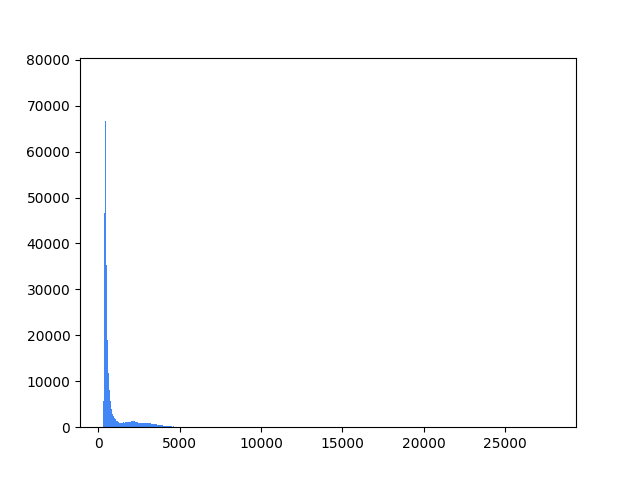
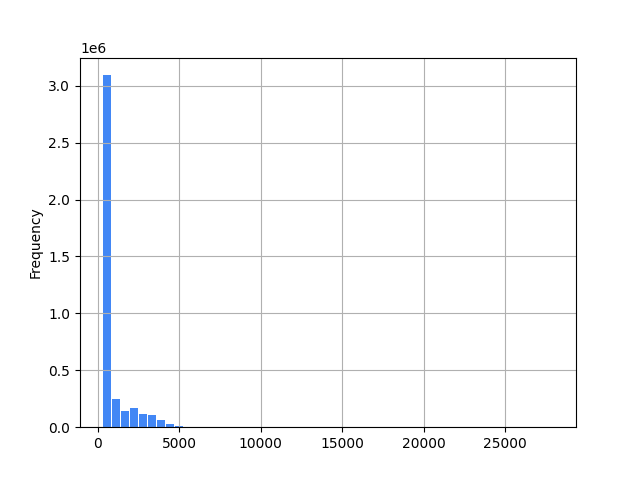
Use Pandas' series histogram.

diff --git a/main.py b/main.py
@@ -1,12 +1,14 @@
 #!/usr/bin/env python3
 import matplotlib.pyplot as plt
+import pandas as pd
 
 def main():
     data = []
     with open('counter.txt') as f:
         data = [int(line.strip()) for line in f]
 
-    n, bins, patches = plt.hist(x=data, bins='auto', color='#4287f5')
+    counts = pd.Series(data)
+    counts.plot.hist(grid=True, bins=50, rwidth=0.9, color='#4287f5')
     plt.savefig('histogram')
 
 if __name__ == '__main__':
